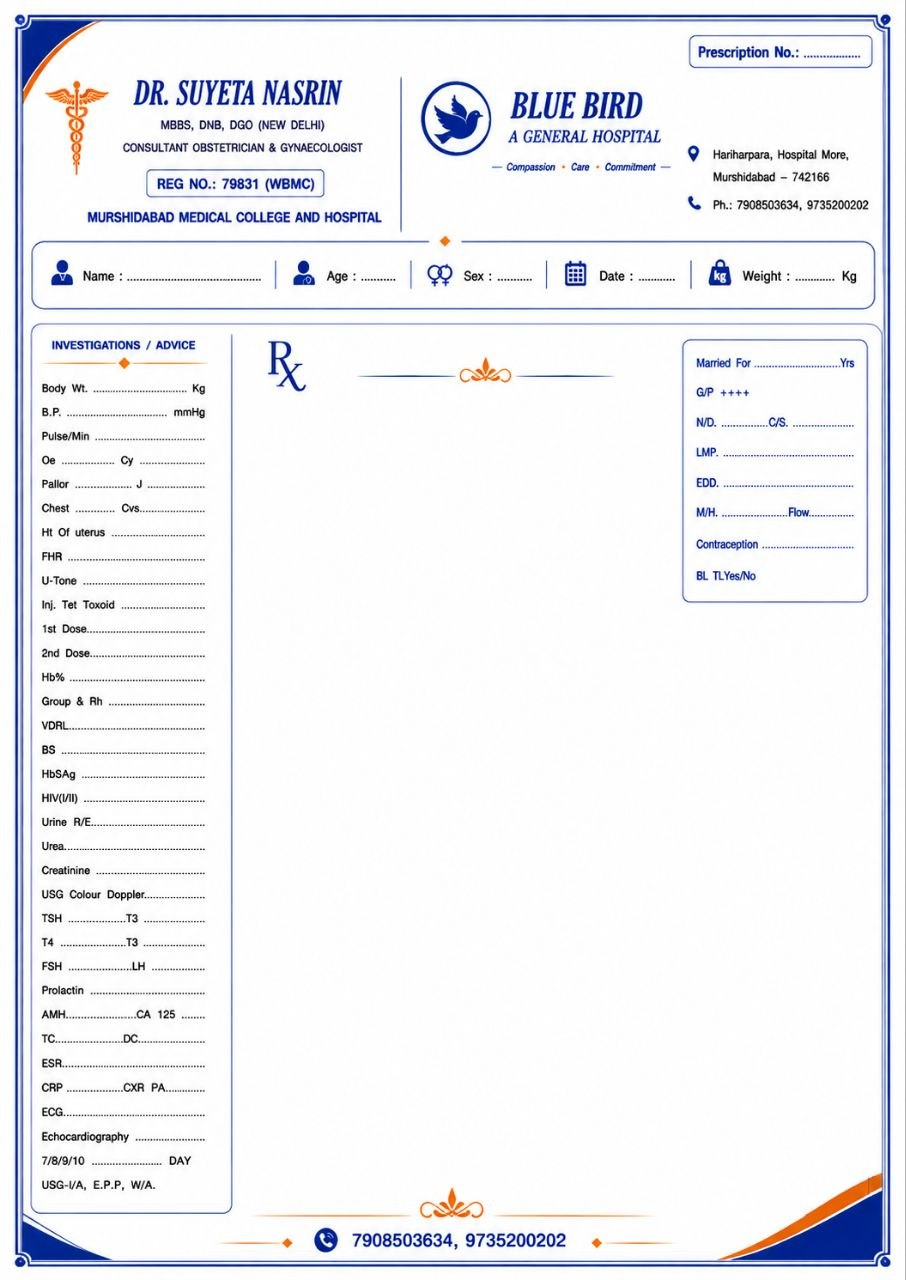
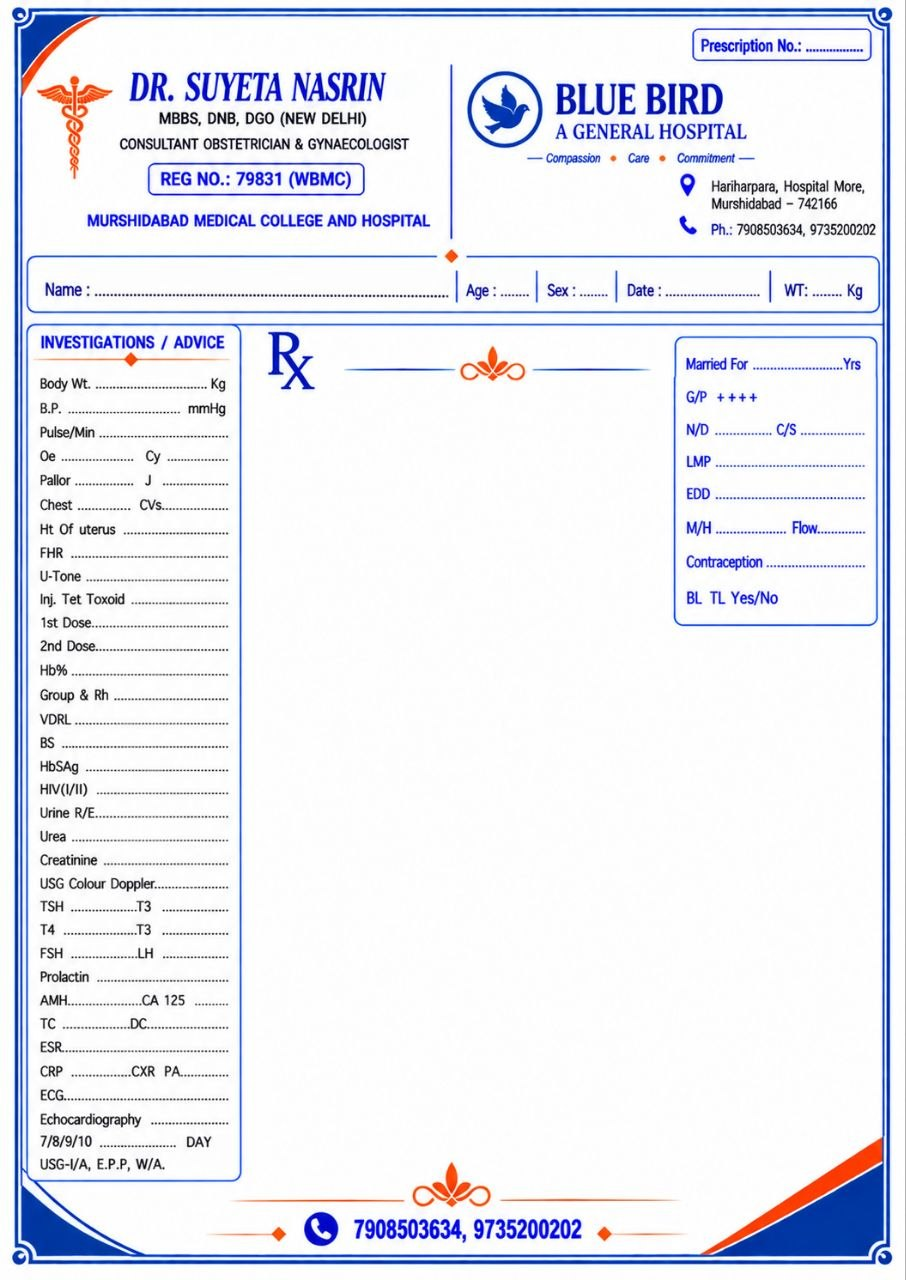
fix: replace Suyeta Nasrin prescription with updated original

Changed region(s): [[0.0, 0.0, 0.989, 1.0]]

diff --git a/CHANGELOG.md b/CHANGELOG.md
@@ -1,5 +1,9 @@
 # Changelog
 
+## v1.1.39 - 2026-09-24
+
+- Replaced DR. SUYETA NASRIN's prescription with the updated supplied original image, preserving its text, artwork, and colours.
+
 ## v1.1.38 - 2026-09-21
 
 - Replaced DR. RAJIBUL BISWAS prescription printing with the updated supplied original prescription image.

diff --git a/SPEC.md b/SPEC.md
@@ -1,7 +1,7 @@
 # Blue Bird Maternal Tracker Specification
 
-Last updated: 2026-09-21
-Current app version: `1.1.38` / versionCode `46`
+Last updated: 2026-09-24
+Current app version: `1.1.39` / versionCode `47`
 Package: `com.maternaltracker.india`  
 Hospital scope: `BLUE BIRD A GENERAL HOSPITAL`
 
